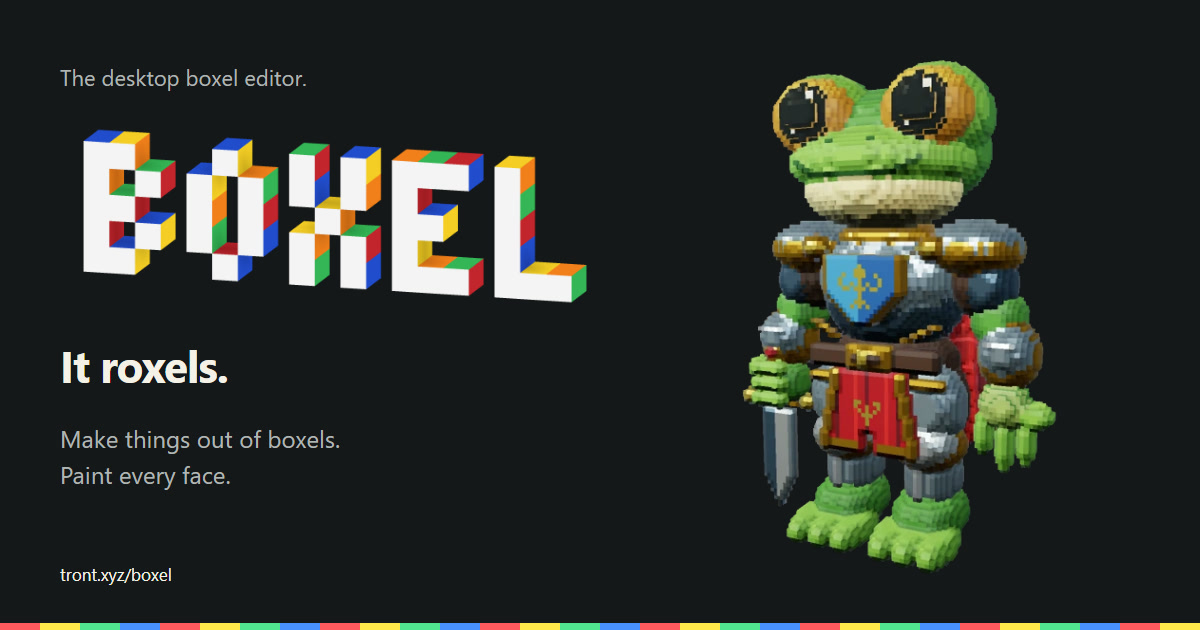
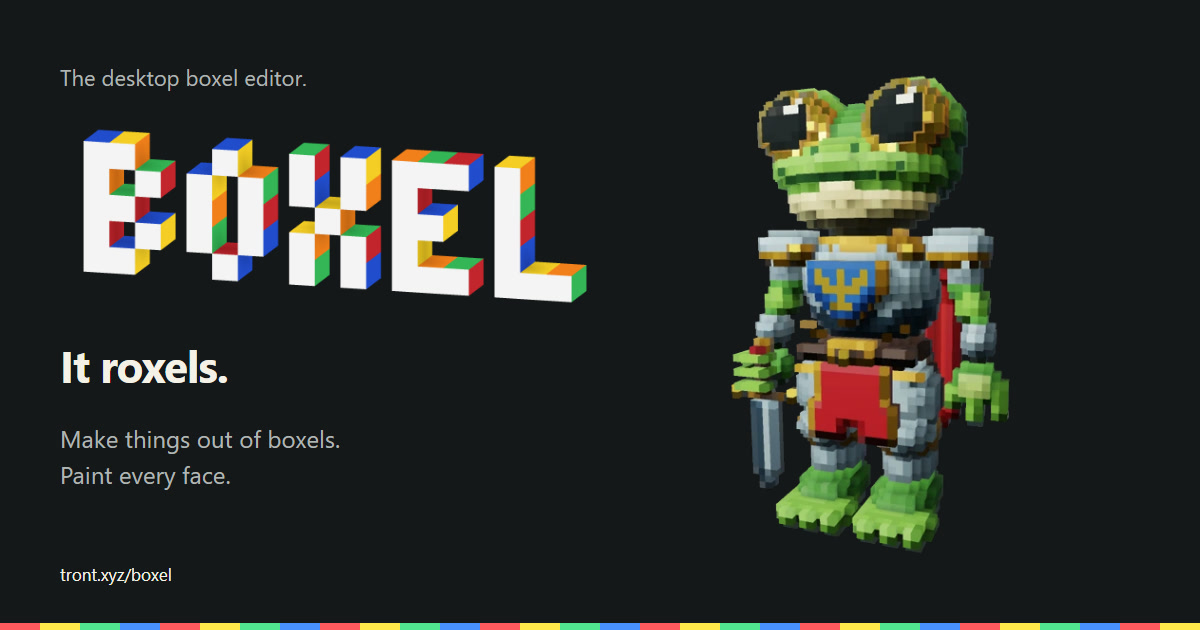
Show compact Boxel art with a rebuilt Froggy and twelve native models

Changed region(s): [[0.5858, 0.0905, 0.8942, 0.9048]]

diff --git a/boxel/index.html b/boxel/index.html
@@ -7,22 +7,30 @@
 <link rel="canonical" href="https://tront.xyz/boxel/"><link rel="icon" href="img/brand/mark-one.png" type="image/png">
 <meta property="og:url" content="https://tront.xyz/boxel/"><meta property="og:type" content="website"><meta property="og:title" content="Boxel. It roxels."><meta property="og:description" content="Every face is a canvas. A desktop editor for boxel characters, props, and worlds."><meta property="og:image" content="https://tront.xyz/boxel/img/og.jpg"><meta name="twitter:card" content="summary_large_image"><meta name="twitter:image" content="https://tront.xyz/boxel/img/og.jpg"><meta name="theme-color" content="#151719">
 <script>try{const t=localStorage.getItem('boxel-theme');if(t==='light'||t==='dark')document.documentElement.dataset.theme=t}catch{}</script>
-<link rel="stylesheet" href="style.css?v=brand2">
+<link rel="stylesheet" href="style.css?v=small1">
 <script type="application/ld+json">{"@context":"https://schema.org","@type":"SoftwareApplication","name":"Boxel","applicationCategory":"DesignApplication","operatingSystem":"Windows, Linux","description":"A desktop boxel editor with per-face materials, scene animation, guided lessons, and game-engine export.","author":{"@type":"Person","@id":"https://tront.xyz/#trent-sterling","name":"Trent Sterling","url":"https://tront.xyz/"}}</script>
 </head><body>
 <a class="skip" href="#main">Skip to content</a>
 <header class="site-header"><div class="wrap header-inner"><a class="brand" href="#top" aria-label="Boxel home"><img class="brand-cube" src="img/brand/mark.png" width="40" height="40" alt=""><img class="brand-type" src="img/brand/wordmark.png" width="1400" height="440" alt="Boxel"></a><nav aria-label="Main navigation"><a href="#editor">The editor</a><a href="#what">Why boxels?</a><a href="#gallery">Made in Boxel</a></nav><div class="header-actions"><button id="themeToggle" type="button">Light mode</button><a class="community-link" href="https://tront.xyz/discord/">Follow along <span aria-hidden="true">↗</span></a></div></div></header>
 <main id="main">
-<section class="hero wrap" id="top" aria-labelledby="hero-title"><div class="hero-copy"><p class="intro">The desktop boxel editor.</p><h1 class="wordmark" id="hero-title" aria-label="Boxel"><img src="img/brand/letter_0_B.png" width="300" height="380" style="--i:0" alt="" aria-hidden="true" draggable="false"><img src="img/brand/letter_1_O.png" width="300" height="380" style="--i:1" alt="" aria-hidden="true" draggable="false"><img src="img/brand/letter_2_X.png" width="300" height="380" style="--i:2" alt="" aria-hidden="true" draggable="false"><img src="img/brand/letter_3_E.png" width="300" height="380" style="--i:3" alt="" aria-hidden="true" draggable="false"><img src="img/brand/letter_4_L.png" width="300" height="380" style="--i:4" alt="" aria-hidden="true" draggable="false"></h1><p class="roxels">It roxels<span class="period">.</span></p><p class="hero-description">Make characters, props and worlds.<br>Paint every face. Move every part.</p><div class="actions"><a class="button primary" href="#editor">See the editor <span aria-hidden="true">↓</span></a><a class="text-link" href="#get">Get release updates <span aria-hidden="true">↗</span></a></div><button class="bounce-trigger text-link" type="button">Bounce the letters <span aria-hidden="true">↻</span></button></div><figure class="hero-art"><div class="hero-art-stage"><img id="hero-model" src="img/froggy-neutral-v2.webp" width="600" height="600" fetchpriority="high" alt="Froggy, a green boxel knight with silver armor, a red cape and a sword at his side."><canvas id="frog-canvas" width="600" height="600" hidden aria-label="Froggy raising an open palm to greet you"></canvas></div><figcaption><span>Froggy, pond knight</span><span>Made in Boxel</span></figcaption><div class="frog-controls"><div class="frog-views" role="group" aria-label="View Froggy"><button type="button" data-frog-view="pose" aria-pressed="true">Three-quarter</button><button type="button" data-frog-view="front" aria-pressed="false">Front</button><button type="button" data-frog-view="back" aria-pressed="false">Back</button></div><button type="button" id="frog-play" hidden aria-pressed="false">Play greeting</button></div><div class="frog-timeline" hidden><label class="visually-hidden" for="frog-time">Greeting playhead</label><input id="frog-time" type="range" min="0" max="95" value="0" step="1" aria-valuetext="0 seconds of 4"><output id="frog-clock" for="frog-time">0.0 / 4.0 s</output></div><p id="frog-status" aria-live="polite"></p></figure></section>
+<section class="hero wrap" id="top" aria-labelledby="hero-title"><div class="hero-copy"><p class="intro">The desktop boxel editor.</p><h1 class="wordmark" id="hero-title" aria-label="Boxel"><img src="img/brand/letter_0_B.png" width="300" height="380" style="--i:0" alt="" aria-hidden="true" draggable="false"><img src="img/brand/letter_1_O.png" width="300" height="380" style="--i:1" alt="" aria-hidden="true" draggable="false"><img src="img/brand/letter_2_X.png" width="300" height="380" style="--i:2" alt="" aria-hidden="true" draggable="false"><img src="img/brand/letter_3_E.png" width="300" height="380" style="--i:3" alt="" aria-hidden="true" draggable="false"><img src="img/brand/letter_4_L.png" width="300" height="380" style="--i:4" alt="" aria-hidden="true" draggable="false"></h1><p class="roxels">It roxels<span class="period">.</span></p><p class="hero-description">Make characters, props and worlds.<br>Paint every face. Move every part.</p><div class="actions"><a class="button primary" href="#editor">See the editor <span aria-hidden="true">↓</span></a><a class="text-link" href="#get">Get release updates <span aria-hidden="true">↗</span></a></div><button class="bounce-trigger text-link" type="button">Bounce the letters <span aria-hidden="true">↻</span></button></div><figure class="hero-art"><div class="hero-art-stage"><img id="hero-model" src="img/froggy-neutral-v3.webp" width="600" height="600" fetchpriority="high" alt="Froggy, a green boxel knight with silver armor, a red cape and a sword at his side."><canvas id="frog-canvas" width="600" height="600" hidden aria-label="Froggy raising an open palm to greet you"></canvas></div><figcaption><span>Froggy, pond knight</span><span>Made in Boxel</span></figcaption><div class="frog-controls"><div class="frog-views" role="group" aria-label="View Froggy"><button type="button" data-frog-view="pose" aria-pressed="true">Three-quarter</button><button type="button" data-frog-view="front" aria-pressed="false">Front</button><button type="button" data-frog-view="back" aria-pressed="false">Back</button></div><button type="button" id="frog-play" aria-pressed="false">Play greeting</button></div><div class="frog-timeline" hidden><label class="visually-hidden" for="frog-time">Greeting playhead</label><input id="frog-time" type="range" min="0" max="95" value="0" step="1" aria-valuetext="0 seconds of 4"><output id="frog-clock" for="frog-time">0.0 / 4.0 s</output></div><p id="frog-status" aria-live="polite"></p></figure></section>
 <div class="rainbow" aria-hidden="true"></div>
-<section id="editor" class="editor-section section wrap" aria-labelledby="editor-title"><div class="section-heading"><div><p class="section-label">The editor</p><h2 id="editor-title">Build your model.<br>Make it move.</h2></div><p class="section-intro">Per-face materials. Editable shapes. Joint pivots and keyframes. One desktop workspace, from the first boxel to the final pose.</p></div><figure class="editor-figure"><a href="img/editor-studio.webp?v=gesture2" target="_blank" rel="noopener" aria-label="Open the full-size Boxel editor screenshot"><img src="img/editor-studio.webp?v=gesture2" width="1920" height="1200" loading="lazy" alt="The Boxel desktop editor, with a model in the viewport and its tools, scene hierarchy, palette, and timeline arranged around it."></a><figcaption><span>Froggy in the editor, with his joint hierarchy and animation timeline.</span><a href="#start">New here? The editor teaches you. <span aria-hidden="true">↗</span></a></figcaption></figure><div class="tool-strip" id="features"><p><strong>Make</strong><span>Sculpt, extrude, mirror, generate.</span></p><p><strong>Paint</strong><span>Color and material on each face.</span></p><p><strong>Move</strong><span>Set pivots. Pose. Add keyframes.</span></p><p><strong>Take it with you</strong><span>Export to your game or next tool.</span></p></div></section>
+<section class="small-gallery section wrap" id="gallery" aria-labelledby="gallery-title"><h2 id="gallery-title">Made in Boxel.</h2><p class="gallery-intro">Little characters, snacks, and things for your next game. Pick one for a closer look.</p><ul class="model-shelf"><li><a href="img/small-art/duck.webp"><img src="img/small-art/duck.webp" width="640" height="640" loading="lazy" alt="Duck, a compact model made in Boxel."><span>Duck</span></a></li>
+<li><a href="img/small-art/fox.webp"><img src="img/small-art/fox.webp" width="640" height="640" loading="lazy" alt="Fox, a compact model made in Boxel."><span>Fox</span></a></li>
+<li><a href="img/small-art/frog.webp"><img src="img/small-art/frog.webp" width="640" height="640" loading="lazy" alt="Frog, a compact model made in Boxel."><span>Frog</span></a></li>
+<li><a href="img/small-art/penguin.webp"><img src="img/small-art/penguin.webp" width="640" height="640" loading="lazy" alt="Penguin, a compact model made in Boxel."><span>Penguin</span></a></li>
+<li><a href="img/small-art/bee.webp"><img src="img/small-art/bee.webp" width="640" height="640" loading="lazy" alt="Bee, a compact model made in Boxel."><span>Bee</span></a></li>
+<li><a href="img/small-art/owl.webp"><img src="img/small-art/owl.webp" width="640" height="640" loading="lazy" alt="Owl, a compact model made in Boxel."><span>Owl</span></a></li>
+<li><a href="img/small-art/octopus.webp"><img src="img/small-art/octopus.webp" width="640" height="640" loading="lazy" alt="Octopus, a compact model made in Boxel."><span>Octopus</span></a></li>
+<li><a href="img/small-art/turtle.webp"><img src="img/small-art/turtle.webp" width="640" height="640" loading="lazy" alt="Turtle, a compact model made in Boxel."><span>Turtle</span></a></li>
+<li><a href="img/small-art/retro_tv.webp"><img src="img/small-art/retro_tv.webp" width="640" height="640" loading="lazy" alt="Retro television, a compact model made in Boxel."><span>Retro television</span></a></li>
+<li><a href="img/small-art/toony_burger.webp"><img src="img/small-art/toony_burger.webp" width="640" height="640" loading="lazy" alt="Burger, a compact model made in Boxel."><span>Burger</span></a></li>
+<li><a href="img/small-art/space_astronaut.webp"><img src="img/small-art/space_astronaut.webp" width="640" height="640" loading="lazy" alt="Astronaut, a compact model made in Boxel."><span>Astronaut</span></a></li>
+<li><a href="img/small-art/strawberry.webp"><img src="img/small-art/strawberry.webp" width="640" height="640" loading="lazy" alt="Strawberry, a compact model made in Boxel."><span>Strawberry</span></a></li></ul></section>
+<div class="rainbow" aria-hidden="true"></div>
+<section id="editor" class="editor-section section wrap" aria-labelledby="editor-title"><div class="section-heading"><div><p class="section-label">The editor</p><h2 id="editor-title">Build your model.<br>Make it move.</h2></div><p class="section-intro">Per-face materials. Editable shapes. Joint pivots and keyframes. One desktop workspace, from the first boxel to the final pose.</p></div><figure class="editor-figure"><a href="img/editor-studio.webp?v=coarse3" target="_blank" rel="noopener" aria-label="Open the full-size Boxel editor screenshot"><img src="img/editor-studio.webp?v=coarse3" width="1920" height="1200" loading="lazy" alt="The Boxel desktop editor, with a model in the viewport and its tools, scene hierarchy, palette, and timeline arranged around it."></a><figcaption><span>Froggy in the editor, with his joint hierarchy and animation timeline.</span><a href="#start">New here? The editor teaches you. <span aria-hidden="true">↗</span></a></figcaption></figure><div class="tool-strip" id="features"><p><strong>Make</strong><span>Sculpt, extrude, mirror, generate.</span></p><p><strong>Paint</strong><span>Color and material on each face.</span></p><p><strong>Move</strong><span>Set pivots. Pose. Add keyframes.</span></p><p><strong>Take it with you</strong><span>Export to your game or next tool.</span></p></div></section>
 <section id="what" class="face-section section" aria-labelledby="face-title"><div class="wrap face-layout"><div class="face-copy"><p class="section-label">This is what makes it a boxel</p><h2 id="face-title">One cube.<br>Paint every face.</h2><p>Paint an eye on the front. Put metal on the sides. Leave the back green. Each face can have its own color and material, all on the same boxel.</p><p class="secondary-copy">Metal, glass, and emissive surfaces can live side by side.</p><a class="text-link" href="#gallery">See what that looks like <span aria-hidden="true">↓</span></a></div><figure class="face-playground"><img id="face-model" src="img/brand/one-front.png" width="512" height="512" loading="lazy" alt="The original single-boxel mark, with white on top, blue on the left and red on the right."><div class="face-tabs" role="group" aria-label="View the boxel"><button type="button" data-boxel-view="front" aria-pressed="true">Front</button><button type="button" data-boxel-view="back" aria-pressed="false">Back</button><button type="button" data-boxel-view="below" aria-pressed="false">Underneath</button></div><figcaption>One boxel. Six face materials.<br>Our original mark, straight from the editor.</figcaption></figure></div></section>
-<section class="gallery-section section wrap" id="gallery" aria-labelledby="gallery-title"><div class="section-heading"><div><p class="section-label">Made in Boxel</p><h2 id="gallery-title">Characters. Props.<br>Places to explore.</h2></div><p class="section-intro">Built, painted, and rendered in Boxel. Open a piece to take a closer look.</p></div><div class="gallery-layout">
-<figure class="artwork cottage"><a href="img/mushroom_cottage.webp" target="_blank" rel="noopener" aria-label="View the mushroom cottage render full size"><div class="artwork-image"><img src="img/mushroom_cottage.webp" width="1200" height="750" loading="lazy" alt="A red-capped mushroom cottage in soft studio light, built from small beveled boxels."></div></a><figcaption><div><h3>Mushroom cottage</h3><p>Rounded boxels and soft lighting.</p></div><span>Model + materials</span></figcaption></figure>
-<figure class="artwork arcade"><a href="img/arcade.webp" target="_blank" rel="noopener" aria-label="View the arcade cabinet full size"><div class="artwork-image"><img src="img/arcade.webp" width="1200" height="900" loading="lazy" alt="A neon arcade cabinet with colorful face-painted screen art, controls, and a tiled base."></div></a><figcaption><div><h3>One more game</h3><p>Right down to the buttons.</p></div><span>Face painting</span></figcaption></figure>
-<figure class="artwork rooftop"><a href="img/rooftop.webp" target="_blank" rel="noopener" aria-label="View the rooftop scene full size"><div class="artwork-image"><img src="img/rooftop.webp" width="1200" height="900" loading="lazy" alt="A miniature brick rooftop with a water tank, lit windows, a sign, and a street lamp."></div></a><figcaption><div><h3>Still awake</h3><p>A whole story on one rooftop.</p></div><span>Scene building</span></figcaption></figure>
-<figure class="artwork twist"><a href="img/rubik-twist.webp" target="_blank" rel="noopener" aria-label="View the twisted puzzle cube full size"><div class="artwork-image"><img src="img/rubik-twist.webp" width="1200" height="900" loading="lazy" alt="A puzzle cube with its top layer turned, painted face tiles and recessed edges on a lit square base."></div></a><figcaption><div><h3>A little twist</h3><p>Painted faces. One pivot. A proper turn.</p></div><span>Faces + pivots</span></figcaption></figure>
-</div></section><div class="rainbow" aria-hidden="true"></div>
+
 <section class="learn-section section wrap" id="start" aria-labelledby="learn-title"><div class="learn-copy"><p class="section-label">Learn by making</p><h2 id="learn-title">Your first boxel<br>has company.</h2><p>Meet Patch. A little practice bot with a few things to fix. Open <strong>Learn</strong> in the editor and make them right.</p><ol class="lesson-steps"><li><strong>Watch a move.</strong> See the tool at work in your actual workspace.</li><li><strong>Try it yourself.</strong> Place, paint, select, and undo. The lesson checks your work.</li><li><strong>Keep exploring.</strong> Your own project returns when the lesson ends.</li></ol><p class="lesson-note">Eleven guided projects, from placing a boxel to exporting a model.</p></div><figure class="learn-art"><img src="img/editor-tutorial.webp" width="1600" height="900" loading="lazy" alt="A guided Boxel lesson showing Patch, a small purple practice robot, and the face-painting instructions."><figcaption>Patch is waiting under Learn in the editor.</figcaption></figure></section>
 <section class="release-section" id="get" aria-labelledby="release-title"><div class="wrap release-inner">
 
@@ -30,5 +38,5 @@
 
 
 </div></section></main><div class="rainbow" aria-hidden="true"></div>
-<footer class="wrap site-footer"><a class="brand" href="#top"><img class="brand-cube" src="img/brand/mark.png" width="40" height="40" alt=""><img class="brand-type" src="img/brand/wordmark.png" width="1400" height="440" alt="Boxel"></a><p>Made by <a href="https://tront.xyz/">Trent Sterling</a>.<br>An independent graphics tool.</p><a class="text-link" href="#top">Back to the top <span aria-hidden="true">↑</span></a></footer><script src="js/site.js?v=brand2" defer></script><script src="js/froggy.js?v=still3" defer></script>
-</body></html>
+<footer class="wrap site-footer"><a class="brand" href="#top"><img class="brand-cube" src="img/brand/mark.png" width="40" height="40" alt=""><img class="brand-type" src="img/brand/wordmark.png" width="1400" height="440" alt="Boxel"></a><p>Made by <a href="https://tront.xyz/">Trent Sterling</a>.<br>An independent graphics tool.</p><a class="text-link" href="#top">Back to the top <span aria-hidden="true">↑</span></a></footer><script src="js/site.js?v=brand2" defer></script><script src="js/froggy.js?v=coarse3" defer></script>
+<dialog id="art-viewer" aria-labelledby="art-caption"><div class="art-viewer-toolbar"><p id="art-caption"></p><button type="button" data-art-close>Close</button></div><img src="img/small-art/duck.webp" width="640" height="640" alt="Duck, a compact model made in Boxel."><div class="art-viewer-nav"><button type="button" data-art-prev>Previous</button><span id="art-count" aria-live="polite"></span><button type="button" data-art-next>Next</button></div></dialog><script src="js/gallery.js?v=small1" defer></script></body></html>

diff --git a/boxel/style.css b/boxel/style.css
@@ -196,6 +196,24 @@ h3{font-size:21px}
 .hero-art-stage img,.hero-art-stage canvas{position:absolute;inset:0;width:100%;height:100%;max-width:100%;margin:0;object-fit:contain}
 
 .hero-art-stage [hidden]{display:none}
+.small-gallery{padding-top:64px;padding-bottom:74px}
+.small-gallery h2{font-size:clamp(32px,4vw,52px)}
+.gallery-intro{color:var(--muted);max-width:600px;margin-top:18px;font-size:17px}
+.model-shelf{list-style:none;display:grid;grid-template-columns:repeat(4,minmax(0,1fr));gap:34px 24px;padding:0;margin:42px 0 0}
+.model-shelf a{display:block;text-align:center;text-decoration:none;color:var(--text);border-radius:4px}
+.model-shelf img{display:block;width:100%;height:auto;aspect-ratio:1;object-fit:contain;transition:transform .3s cubic-bezier(.2,.8,.3,1)}
+.model-shelf span{display:block;font-size:15px;margin-top:10px}
+.model-shelf a:hover img,.model-shelf a:focus-visible img{transform:translateY(-5px)}
+#art-viewer{width:min(740px,calc(100vw - 32px));max-height:calc(100dvh - 32px);padding:20px 26px;border:1px solid var(--line);border-radius:4px;background:var(--bg);color:var(--text);margin:auto;overflow:auto}
+#art-viewer::backdrop{background:rgb(0 0 0 / .78)}
+#art-viewer img{width:100%;height:min(65dvh,600px);object-fit:contain;display:block}
+.art-viewer-toolbar,.art-viewer-nav{display:flex;align-items:center;justify-content:space-between;gap:16px}
+.art-viewer-toolbar p{font-size:20px;font-weight:650}
+#art-viewer button{background:var(--surface);color:var(--text);border:1px solid var(--muted);padding:10px 16px;border-radius:4px;font:inherit;cursor:pointer}
+#art-count{font-size:13px;color:var(--muted);font-variant-numeric:tabular-nums}
+@media(max-width:1024px){.model-shelf{grid-template-columns:repeat(3,minmax(0,1fr));gap:30px 20px}}
+@media(max-width:600px){.model-shelf{grid-template-columns:repeat(2,minmax(0,1fr));gap:25px 14px;margin-top:28px}.small-gallery{padding-top:42px;padding-bottom:48px}.model-shelf span{font-size:14px}#art-viewer{padding:16px}}
+@media(prefers-reduced-motion:reduce){.model-shelf img{transition:none}.model-shelf a:hover img,.model-shelf a:focus-visible img{transform:none}}
 
 .hero-art figcaption{padding-inline:0}
 

diff --git a/boxel/js/gallery.js b/boxel/js/gallery.js
@@ -1,0 +1,36 @@
+'use strict';
+(() => {
+  const links = [...document.querySelectorAll('.model-shelf a')];
+  const dialog = document.querySelector('#art-viewer');
+  const image = dialog.querySelector('img');
+  const caption = dialog.querySelector('#art-caption');
+  const count = dialog.querySelector('#art-count');
+  let current = 0;
+  const show = index => {
+    current = (index + links.length) % links.length;
+    const link = links[current];
+    image.src = link.href;
+    image.alt = link.querySelector('img').alt;
+    caption.textContent = link.querySelector('span').textContent;
+    count.textContent = `${current + 1} / ${links.length}`;
+  };
+  links.forEach((link, index) => link.addEventListener('click', event => {
+    if (event.ctrlKey || event.metaKey || event.shiftKey || event.altKey) return;
+    event.preventDefault();
+    show(index);
+    dialog.showModal();
+  }));
+  dialog.querySelector('[data-art-close]').addEventListener('click', () => dialog.close());
+  dialog.querySelector('[data-art-prev]').addEventListener('click', () => show(current - 1));
+  dialog.querySelector('[data-art-next]').addEventListener('click', () => show(current + 1));
+  dialog.addEventListener('keydown', event => {
+    if (event.key === 'ArrowLeft') { event.preventDefault(); show(current - 1); }
+    if (event.key === 'ArrowRight') { event.preventDefault(); show(current + 1); }
+  });
+  dialog.addEventListener('click', event => {
+    if (event.target !== dialog) return;
+    const rect = dialog.getBoundingClientRect();
+    if (event.clientX < rect.left || event.clientX > rect.right || event.clientY < rect.top || event.clientY > rect.bottom) dialog.close();
+  });
+  dialog.addEventListener('close', () => links[current].focus({preventScroll:true}));
+})();

diff --git a/boxel/js/froggy.js b/boxel/js/froggy.js
@@ -9,11 +9,11 @@
   const clock = document.querySelector('#frog-clock');
   const status = document.querySelector('#frog-status');
   const views = [...document.querySelectorAll('[data-frog-view]')];
-  const posters = { pose: 'img/froggy-neutral-v2.webp', front: 'img/froggy-front-v2.webp', back: 'img/froggy-back-v2.webp' };
+  const posters = { pose: 'img/froggy-neutral-v3.webp', front: 'img/froggy-front-v3.webp', back: 'img/froggy-back-v3.webp' };
   const descriptions = {
     pose: 'Froggy, a green boxel knight with silver armor, a red cape and a sword at his side.',
     front: 'Froggy from the front: gold-rimmed eyes, a blue painted crest, and a red embroidered tabard.',
-    back: 'Froggy from behind: spotted green skin and a sculpted red cape with folded panels.',
+    back: 'Froggy from behind: spotted green skin and a red cape with a broad center fold.',
   };
   // Keep view navigation usable while an animation is withdrawn for art review.
   if (play.hidden) {
@@ -42,7 +42,7 @@
   }
   async function ready() {
     if (manifest) return;
-    if (!loading) loading = fetch('img/froggy/hello-v2/animation.json').then(response => {
+    if (!loading) loading = fetch('img/froggy/hello-v3/animation.json').then(response => {
       if (!response.ok) throw new Error('Animation unavailable');
       return response.json();
     }).then(async value => {
